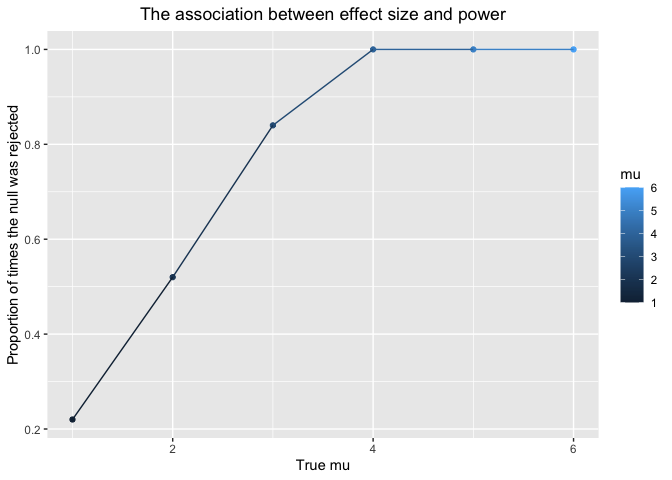
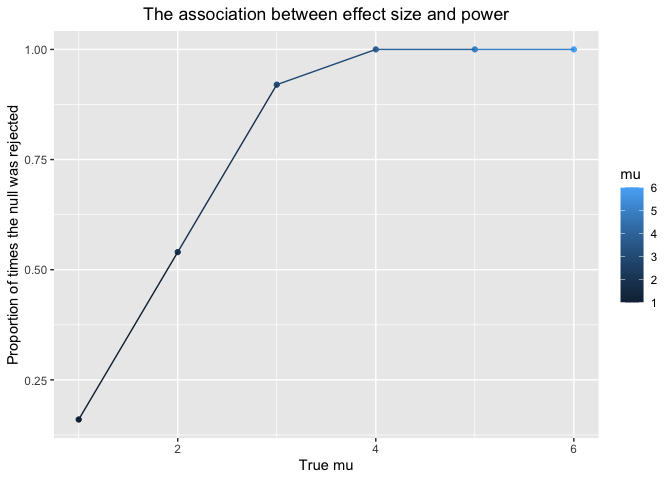
Remove unnessary columns

diff --git a/p8105_hw5_zc2610.md b/p8105_hw5_zc2610.md
@@ -182,6 +182,7 @@ full_df =
 
 1.  Clean the data format
 2.  Make dataframe longer other than wider
+3.  Remove unnessary columns
 
 ``` r
 tidy_df = 
@@ -194,7 +195,8 @@ tidy_df =
     names_to = "week",
     values_to = "outcome",
     names_prefix = "week_") %>% 
-  mutate(week = as.numeric(week))
+  mutate(week = as.numeric(week)) %>% 
+  select(-path) # remove path
 ```
 
 # Problem 2
@@ -426,18 +428,18 @@ bind_rows(output)
 ```
 
     ## # A tibble: 50 × 2
-    ##    mu_hat p_value
-    ##     <dbl>   <dbl>
-    ##  1 -0.493  0.690 
-    ##  2 -1.69   0.119 
-    ##  3  0.700  0.466 
-    ##  4  0.411  0.677 
-    ##  5  1.49   0.120 
-    ##  6 -2.32   0.0459
-    ##  7  1.30   0.212 
-    ##  8  0.733  0.414 
-    ##  9  0.366  0.691 
-    ## 10  0.709  0.399 
+    ##     mu_hat p_value
+    ##      <dbl>   <dbl>
+    ##  1  0.132   0.900 
+    ##  2 -1.31    0.0999
+    ##  3 -0.458   0.656 
+    ##  4  1.64    0.0584
+    ##  5 -0.802   0.396 
+    ##  6 -0.528   0.603 
+    ##  7 -2.29    0.0338
+    ##  8 -0.886   0.290 
+    ##  9  0.920   0.246 
+    ## 10 -0.0127  0.990 
     ## # … with 40 more rows
 
 Repeat the above for mu={1,2,3,4,5,6}
@@ -471,18 +473,18 @@ sim_results
 ```
 
     ## # A tibble: 300 × 4
-    ##       mu mu_hat p_value conclusion    
-    ##    <dbl>  <dbl>   <dbl> <chr>         
-    ##  1     1  1.37  0.118   fail to reject
-    ##  2     1  0.507 0.631   fail to reject
-    ##  3     1 -0.665 0.480   fail to reject
-    ##  4     1  1.33  0.195   fail to reject
-    ##  5     1 -0.439 0.643   fail to reject
-    ##  6     1 -0.832 0.269   fail to reject
-    ##  7     1  0.570 0.625   fail to reject
-    ##  8     1  2.49  0.0112  reject        
-    ##  9     1  1.10  0.224   fail to reject
-    ## 10     1  3.33  0.00186 reject        
+    ##       mu  mu_hat p_value conclusion    
+    ##    <dbl>   <dbl>   <dbl> <chr>         
+    ##  1     1  1.17    0.140  fail to reject
+    ##  2     1  0.863   0.332  fail to reject
+    ##  3     1  0.723   0.498  fail to reject
+    ##  4     1  0.354   0.709  fail to reject
+    ##  5     1  0.929   0.329  fail to reject
+    ##  6     1  1.29    0.192  fail to reject
+    ##  7     1 -0.0417  0.962  fail to reject
+    ##  8     1  1.54    0.107  fail to reject
+    ##  9     1  0.484   0.595  fail to reject
+    ## 10     1  1.61    0.0832 fail to reject
     ## # … with 290 more rows
 
 1.  Count the number of total conclusions with each true mu
